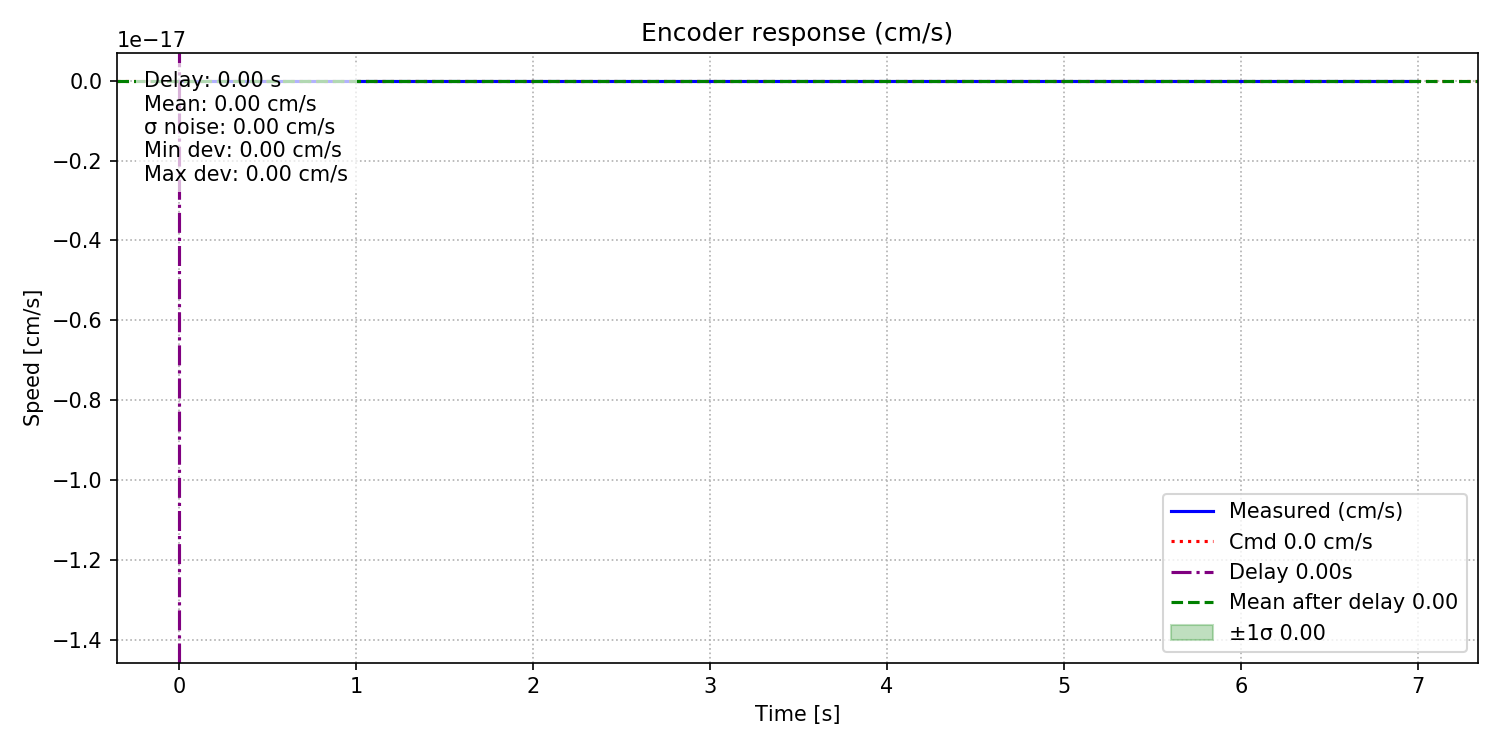
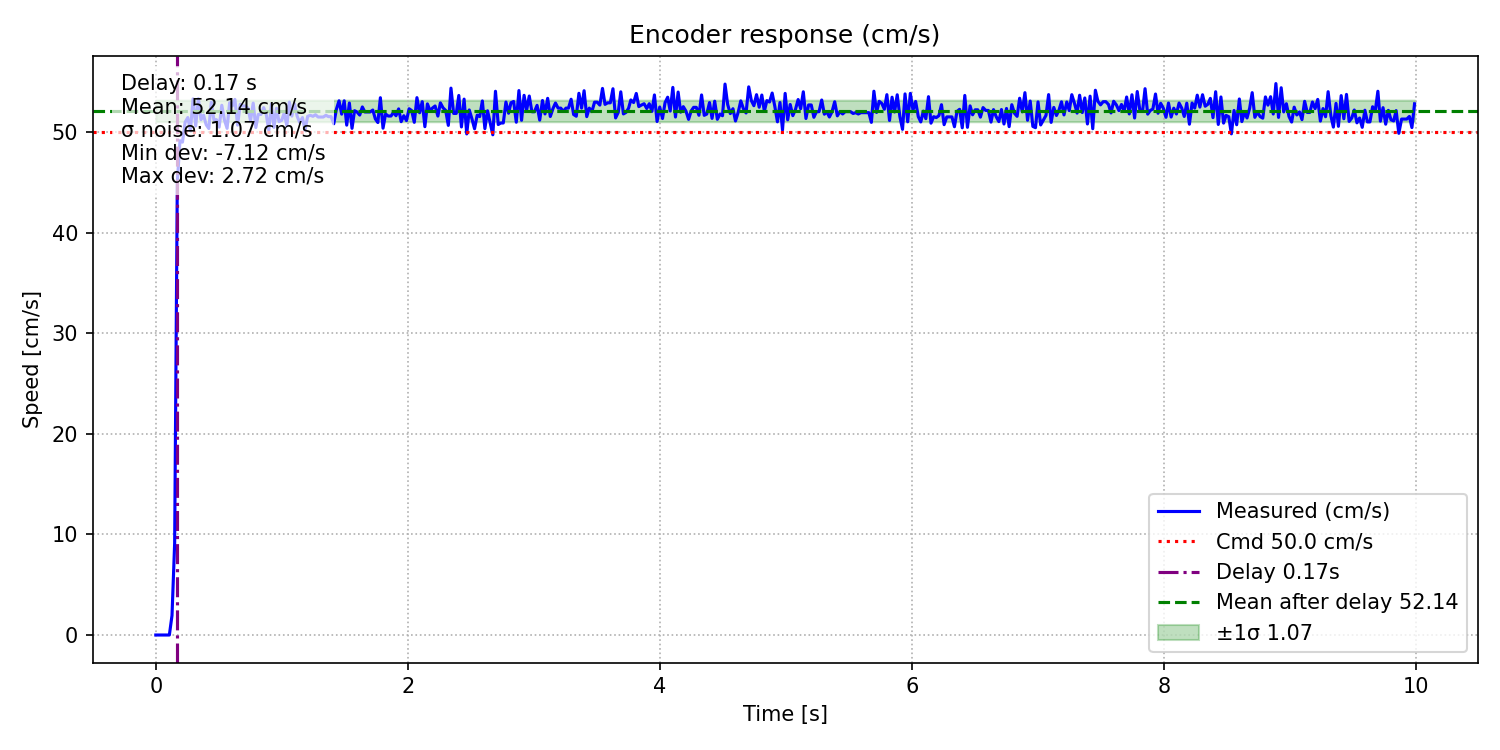
encoder_scripts

diff --git a/Embedded_Platform/Embedded_2024/scripts/encoder_noise_test.py b/Embedded_Platform/Embedded_2024/scripts/encoder_noise_test.py
@@ -12,7 +12,7 @@ import serial
 
 # ────────────────────────────────────────────────────────────────────────────────
 # ENC_PATTERN = re.compile(r"\[Encoder\]\s+angle\s*=\s*([-0-9.]+)°,\s*speed\s*=\s*([-0-9.]+)°/s")
-ENC_PATTERN = re.compile(r"@5:([-0-9.]+);([-0-9.]+);;")
+ENC_PATTERN = re.compile(r"@5:([-0-9.]+);;")
 
 MOTOR_ID = 11
 CM_TO_DEG = -146.0  # deg/s per cm/s (negative to fix sign)
@@ -55,9 +55,8 @@ def run_test(port: str, baud: int, speed_cm_s: float, duration: float, steer: fl
                 m = ENC_PATTERN.match(line)
                 if not m:
                     continue
-                angle = float(m.group(1))
-                speed_cm = float(m.group(2))
-                last_angle = angle
+                speed_cm = float(m.group(1))
+                last_angle = 0
                 speeds_cm.append(speed_cm)
                 times.append(elapsed)
 
@@ -166,9 +165,9 @@ def save_plot(times: list[float], speeds: list[float], cmd_speed: float, delay: 
 
 def main() -> None:
     ap = argparse.ArgumentParser(description="Constant‑speed noise test with delay estimation (cm/s)")
-    ap.add_argument("--cmd", type=float, default=0, help="Commanded speed [cm/s]")
-    ap.add_argument("--steer", type=float, default=-0, help="Steering angle [deg]")
-    ap.add_argument("--dur", type=float, default=7, help="Duration [s]")
+    ap.add_argument("--cmd", type=float, default=50, help="Commanded speed [cm/s]")
+    ap.add_argument("--steer", type=float, default=0, help="Steering angle [deg]")
+    ap.add_argument("--dur", type=float, default=10, help="Duration [s]")
     ap.add_argument("--csv", type=Path, help="Save raw data to CSV")
     ap.add_argument("--port", default="/dev/ttyACM0")
     ap.add_argument("--baud", type=int, default=115200)

diff --git a/Embedded_Platform/Embedded_2024/scripts/encoder_pid.py b/Embedded_Platform/Embedded_2024/scripts/encoder_pid.py
@@ -19,7 +19,7 @@ import serial
 
 # ────────────────────────────────────────────────────────────────────────────────
 # Encoder patterns
-ENC_PATTERN = re.compile(r"@5:([-0-9.]+);([-0-9.]+);;")
+ENC_PATTERN = re.compile(r"@5:([-0-9.]+);;")
 TOT_PATTERN = re.compile(r"\[Encoder\]\s+Total displacement\s*=\s*([-0-9.]+)°")
 
 MOTOR_ID_PWM   = 10     # duty‑cycle 0‑1
@@ -70,12 +70,13 @@ def run_test(port: str, baud: int,
                 line = ser.readline().decode("utf-8", errors="ignore").strip()
 
                 if m := ENC_PATTERN.match(line):
-                    speeds.append(float(m.group(2)))
+                    speeds.append(float(m.group(1)))
                     times.append(elapsed)
                 elif m := TOT_PATTERN.match(line):
-                    deg = float(m.group(1))
-                    if elapsed >= RAMP_SKIP_START and total_start is None:
-                        total_start = deg
+                    # deg = float(m.group(1))
+                    # if elapsed >= RAMP_SKIP_START and total_start is None:
+                    #     total_start = deg
+                    pass
                     total_end = deg
 
             if int(elapsed * 10) % 10 == 0:

diff --git a/Embedded_Platform/Embedded_2024/scripts/encoder_noise_test_pwm.py b/Embedded_Platform/Embedded_2024/scripts/encoder_noise_test_pwm.py
@@ -34,7 +34,7 @@ import serial
 
 # ────────────────────────────────────────────────────────────────────────────────
 # ENC_PATTERN = re.compile(r"\[Encoder\]\s+angle\s*=\s*([-0-9.]+)°,\s*speed\s*=\s*([-0-9.]+)°/s")
-ENC_PATTERN = re.compile(r"@5:([-0-9.]+);([-0-9.]+);;")
+ENC_PATTERN = re.compile(r"@5:([-0-9.]+);;")
 
 MOTOR_ID = 10
 CM_TO_DEG = -146.0  # deg/s per cm/s (negative to fix sign)
@@ -80,13 +80,8 @@ def run_test(port: str, baud: int, speed_cm_s: float, duration: float, steer: fl
                 m = ENC_PATTERN.match(line)
                 if not m:
                     continue
-                # angle = float(m.group(1))
-                # speed_deg_s = float(m.group(2))
-                # last_angle = angle
-                # speeds_cm.append(speed_deg_s / CM_TO_DEG)
-                angle = float(m.group(1))
-                speed_cm = float(m.group(2))
-                last_angle = angle
+                speed_cm = float(m.group(1))
+                last_angle = 0
                 speeds_cm.append(speed_cm)
                 times.append(elapsed)
 

diff --git a/Embedded_Platform/Embedded_2024/scripts/encoder_pwm_calibration.py b/Embedded_Platform/Embedded_2024/scripts/encoder_pwm_calibration.py
@@ -31,7 +31,7 @@ import serial
 # Fast status: "@5:<angle_deg>;<speed_cm_s>;;"
 # Cum. angle : "[Encoder] Total displacement = <deg>°"
 # ------------------------------------------------------------------------------
-ENC_PATTERN = re.compile(r"@5:([-0-9.]+);([-0-9.]+);;")
+ENC_PATTERN = re.compile(r"@5:([-0-9.]+);;")
 TOT_PATTERN = re.compile(r"\[Encoder\]\s+Total displacement\s*=\s*([-0-9.]+)°")
 
 MOTOR_ID_SPEED = 11  # expects cm/s
@@ -92,12 +92,12 @@ def run_test(port: str,
                 raw_lines.append(f"{elapsed:.3f},{line}")
 
                 if m := ENC_PATTERN.match(line):
-                    speeds.append(float(m.group(2)))
+                    speeds.append(float(m.group(1)))
                     times.append(elapsed)
                     continue
 
                 if m := TOT_PATTERN.match(line):
-                    deg = float(m.group(1))
+                    deg = 0
                     # latch start *after* ramp‑up window
                     if elapsed >= RAMP_SKIP_START and total_start is None:
                         total_start = deg

diff --git a/Embedded_Platform/Embedded_2024/scripts/encoder_test.py b/Embedded_Platform/Embedded_2024/scripts/encoder_test.py
@@ -43,7 +43,7 @@ SPEED_SEQUENCE_CM = [46, -45, 0, 40, -30, 30, -20, 20, -10, 10]
 HOLD_TIME_S       = 5.0
 
 # ENC_PATTERN = re.compile(r"\[Encoder\]\s+angle\s*=\s*([-0-9.]+)°,\s*speed\s*=\s*([-0-9.]+)°/s")
-ENC_PATTERN = re.compile(r"@5:([-0-9.]+);([-0-9.]+);;")
+ENC_PATTERN = re.compile(r"@5:([-0-9.]+);;")
 
 
 MOTOR_ID = 13
@@ -149,9 +149,8 @@ class SpeedSweep(QtWidgets.QWidget):
             # speed_deg_s_raw = float(m.group(2))
             # self.last_angle_deg = angle_deg
             # speed_cm_s = (-speed_deg_s_raw) / CM_TO_DEG
-            angle_deg = float(m.group(1))
-            speed_cm_s = float(m.group(2))
-            self.last_angle_deg = angle_deg
+            speed_cm_s = float(m.group(1))
+            self.last_angle_deg = 0
 
             self.t_meas.append(now)
             self.meas_cm.append(speed_cm_s)

diff --git a/Embedded_Platform/Embedded_2024/include/periodics/encoder.hpp b/Embedded_Platform/Embedded_2024/include/periodics/encoder.hpp
@@ -64,7 +64,7 @@ private:
     float               m_dt;                 ///< dt in seconds
     float               m_prevAngle{0.0f};   ///< last angle for derivative
     float               m_prevSpeed{0.0f};   ///< last speed for derivative
-    float               DEGREE_PER_CM{-145.0f}; ///< degrees per cm
+    float               DEGREE_PER_CM{145.0f}; ///< degrees per cm
 
     // Biquad structure for 2nd-order Butterworth
     struct Biquad {

diff --git a/Embedded_Platform/Embedded_2024/scripts/encoder_pwm_calibration2022.py b/Embedded_Platform/Embedded_2024/scripts/encoder_pwm_calibration2022.py
@@ -31,7 +31,7 @@ import serial
 # Fast status: "@5:<angle_deg>;<speed_cm_s>;;"
 # Cum. angle : "[Encoder] Total displacement = <deg>°"
 # ------------------------------------------------------------------------------
-ENC_PATTERN = re.compile(r"@5:([-0-9.]+);([-0-9.]+);;")
+ENC_PATTERN = re.compile(r"@5:([-0-9.]+);;")
 TOT_PATTERN = re.compile(r"\[Encoder\]\s+Total displacement\s*=\s*([-0-9.]+)°")
 
 MOTOR_ID_SPEED = 7  # expects cm/s

diff --git a/Embedded_Platform/Embedded_2024/source/periodics/encoder.cpp b/Embedded_Platform/Embedded_2024/source/periodics/encoder.cpp
@@ -21,7 +21,7 @@ CEncoder::CEncoder(uint32_t f_periodTicks,
       m_pwm(pwm_pin),
       m_serial(f_serial),
       m_periodTicks(f_periodTicks),
-      DEGREE_PER_CM(-145.0f)
+      DEGREE_PER_CM(145.0f)
 {
     // 1) convert ticks → seconds
     m_dt = 0.001f;
